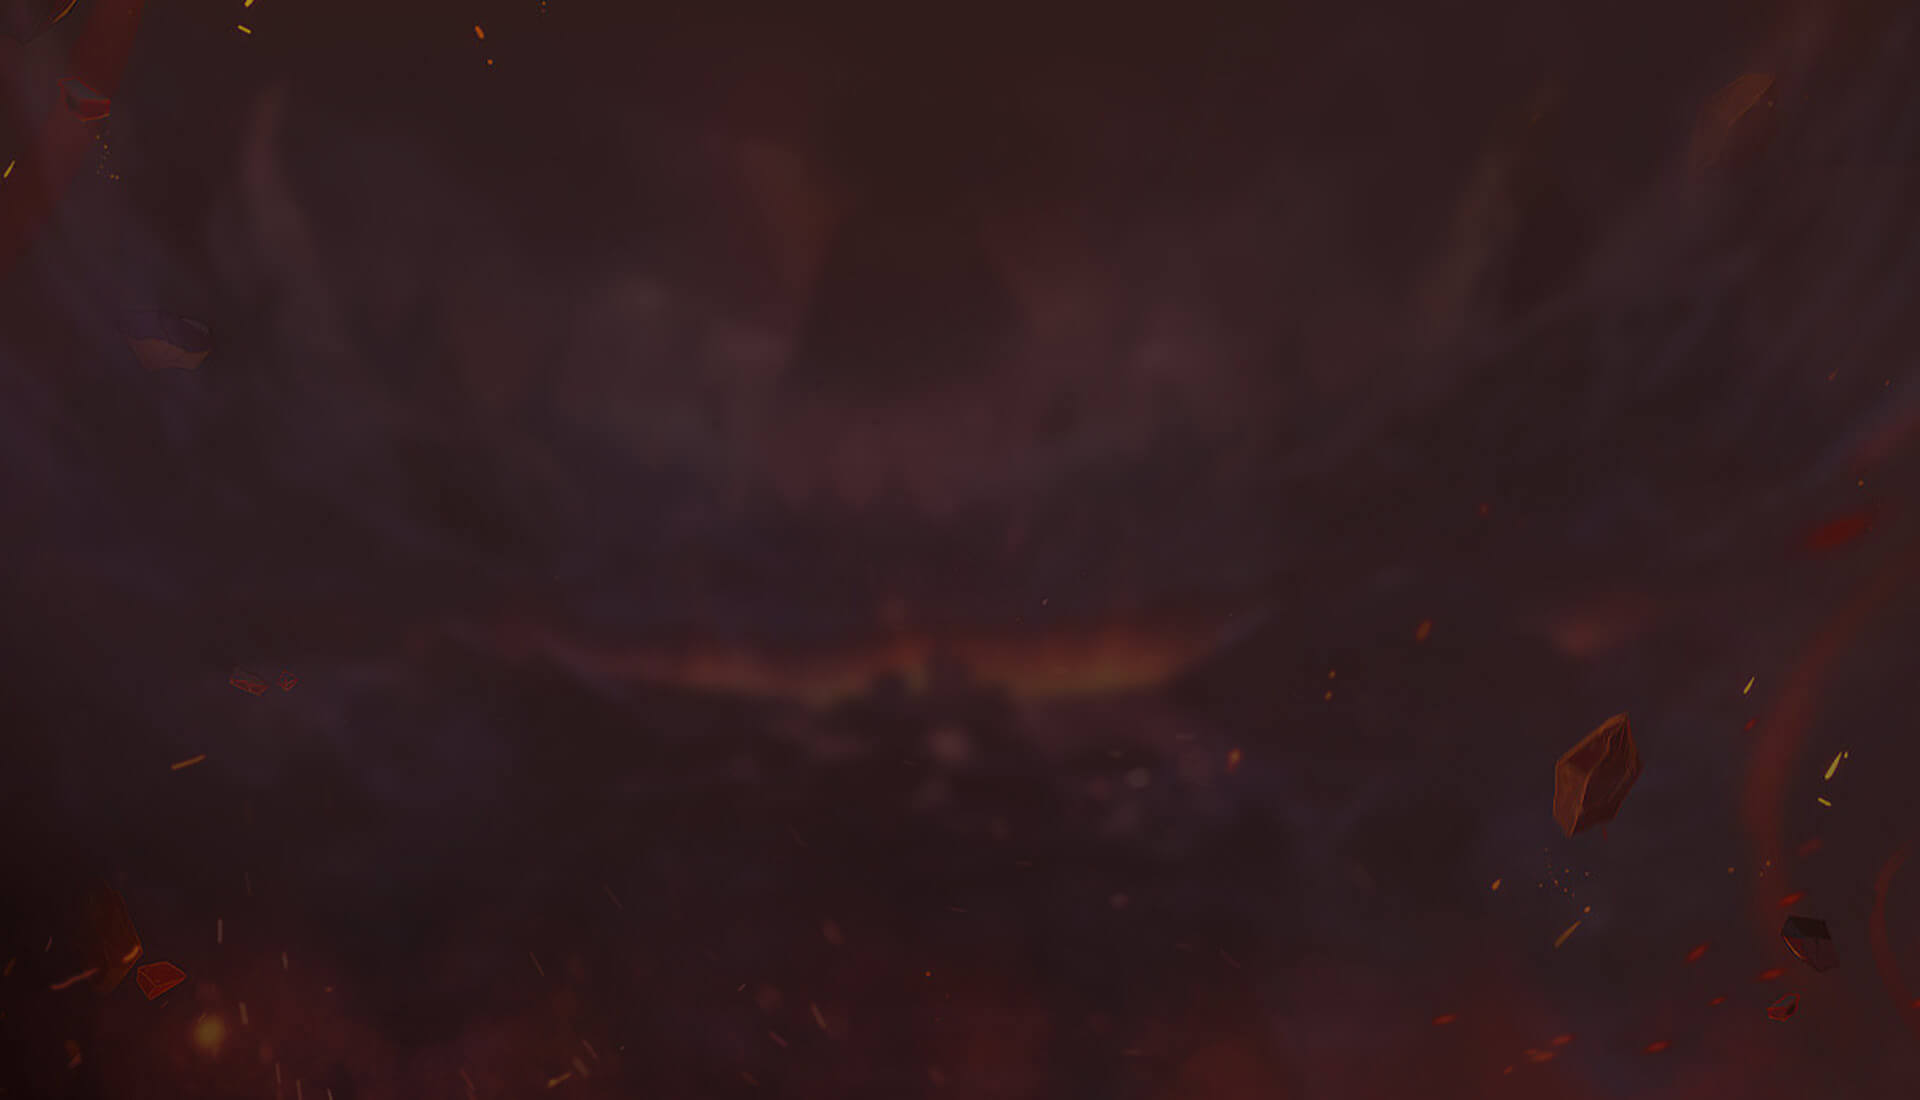
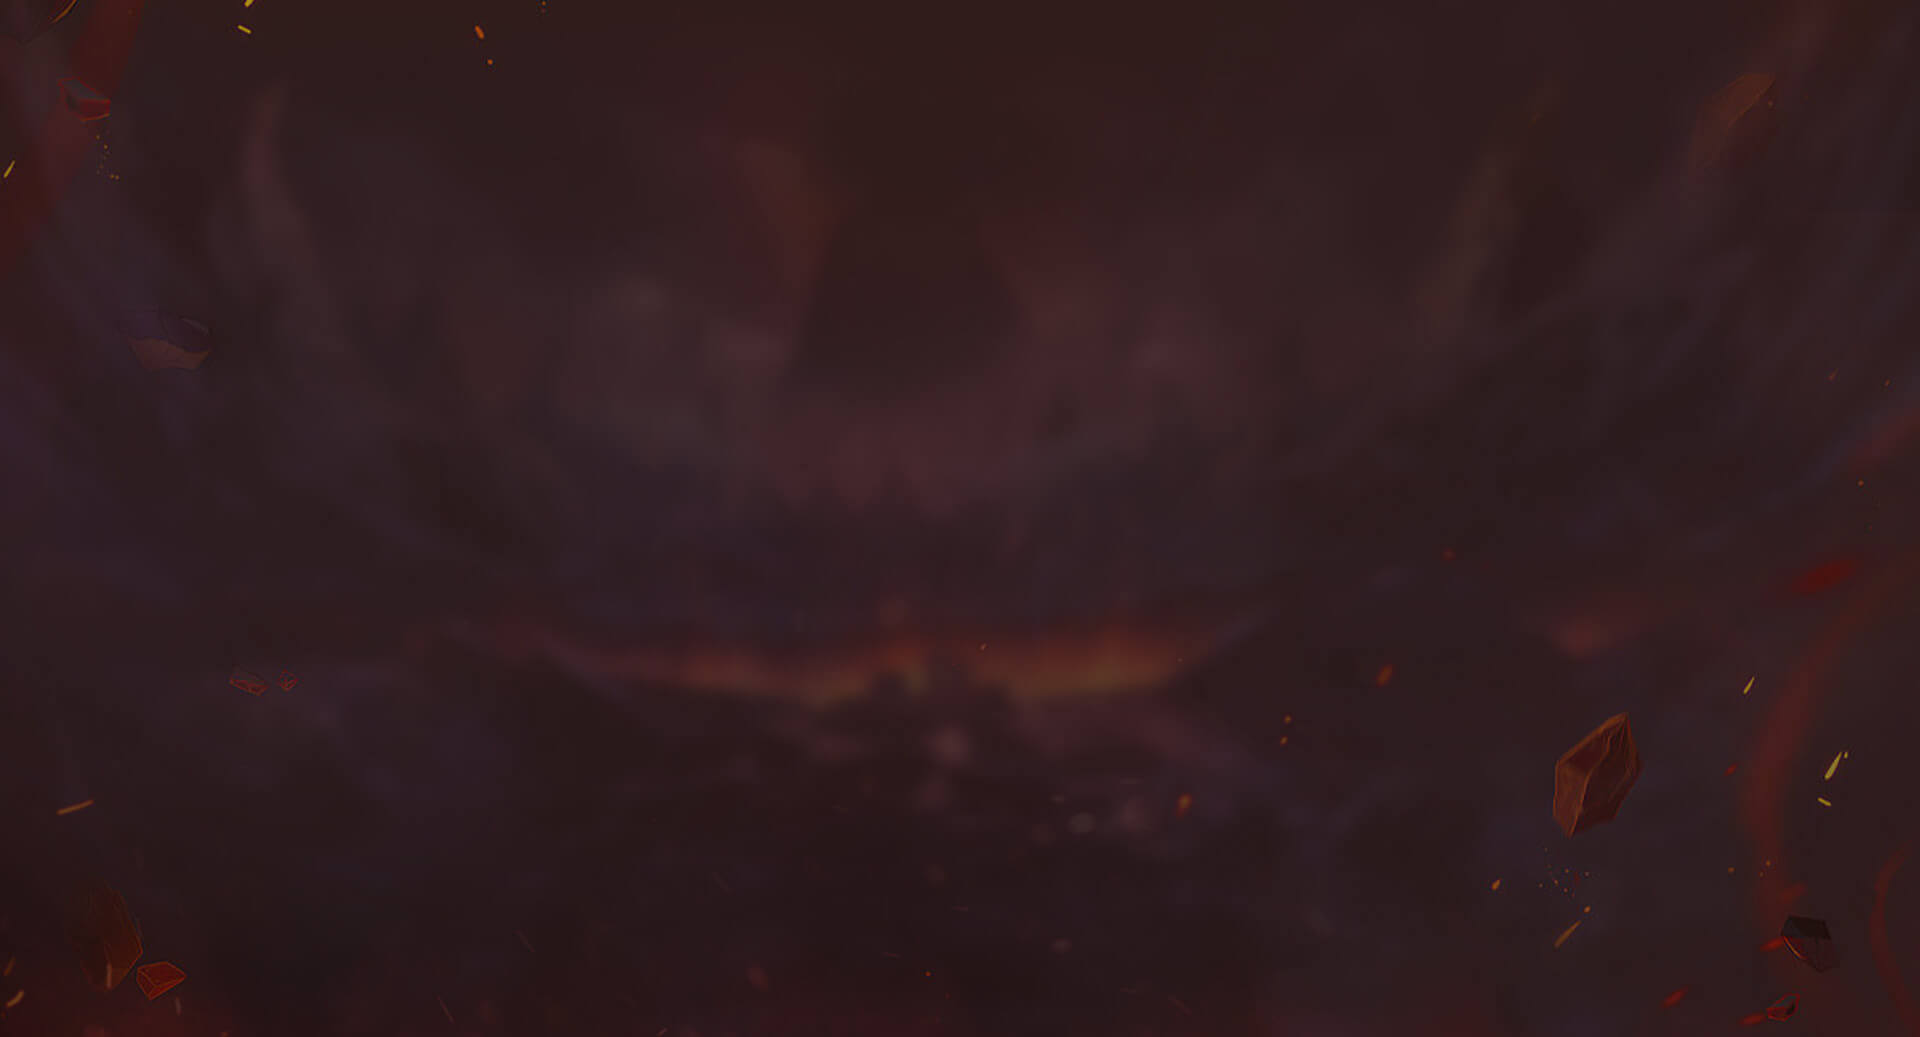
update footer

diff --git a/sass/cg-1010.scss b/sass/cg-1010.scss
@@ -110,7 +110,7 @@ a:hover {text-decoration: none;}
   }
 }
 
-.page4{background: url(../images/bg-page4.jpg) no-repeat top center;position: relative;overflow: hidden;width: 100%;height: 1100px;
+.page4{background: url(../images/bg-page4.jpg) no-repeat top center;position: relative;overflow: hidden;width: 100%;height: 1037px;
   ul{list-style: none;display: flex;justify-content: center;align-items: center;
     a{
       &:hover{filter: brightness(120%);
@@ -130,9 +130,9 @@ a:hover {text-decoration: none;}
   }
 }
 /*==FOOTER=*/
-.footer{min-height: 271px;background: url(../images/bg-footer.jpg) no-repeat top center;background-color:#ffffff;border-top:1px solid #e3e3e3a8;
+.footer{min-height: 220px;background: url(../images/bg-footer.jpg) no-repeat top center;
   .footer-content{display: flex;flex-direction: column;align-items: center;justify-content: center;
-    p{line-height: 1;font-weight: 500;font-size: 18px;}
+    p{line-height: 1;font-weight: 500;font-size: 18px;color:#e9d4bc}
   }
 }
 @media (max-width: 2560px) {

diff --git a/index-cg-1512.html b/index-cg-1512.html
@@ -266,6 +266,16 @@
 					</li>
 				</ul>
 			</div>
+
+			<!--Footer-->
+			<div class="footer">
+				<div class="footer-content py-5">
+					<img class="d-block mb-4" src="images/logovplay.png" alt="" />
+					<p>Hotline: <strong>1900866666</strong> - Email: <strong>hotro@vplay.vn</strong> - Chơi quá 180 phút một ngày sẽ ảnh hưởng xấu đến sức khỏe</p>
+					<p>Vplay phân phối độc quyền tại Việt Nam. Địa chỉ: Tầng 7, tòa nhà VTVCab, Số 3, Ngõ 84 Ngọc Khánh, Phường Ngọc Khánh, quận Ba Đình, Thành Phố Hà Nội.</p>
+					<p>Giấy phép phê duyệt nội dung số 856/QĐ-BTTTT cấp ngày 09/05/2022</p>
+				</div>
+			</div>
 		</div>
 	</div><!----Wrapper-->
 </body>

diff --git a/sass/cg-1010.css b/sass/cg-1010.css
@@ -599,7 +599,7 @@ a:hover {
   position: relative;
   overflow: hidden;
   width: 100%;
-  height: 1100px;
+  height: 1037px;
 }
 
 .page4 ul {
@@ -656,10 +656,8 @@ a:hover {
 
 /*==FOOTER=*/
 .footer {
-  min-height: 271px;
+  min-height: 220px;
   background: url(../images/bg-footer.jpg) no-repeat top center;
-  background-color: #ffffff;
-  border-top: 1px solid #e3e3e3a8;
 }
 
 .footer .footer-content {
@@ -682,5 +680,6 @@ a:hover {
   line-height: 1;
   font-weight: 500;
   font-size: 18px;
+  color: #e9d4bc;
 }
 /*# sourceMappingURL=cg-1010.css.map */
